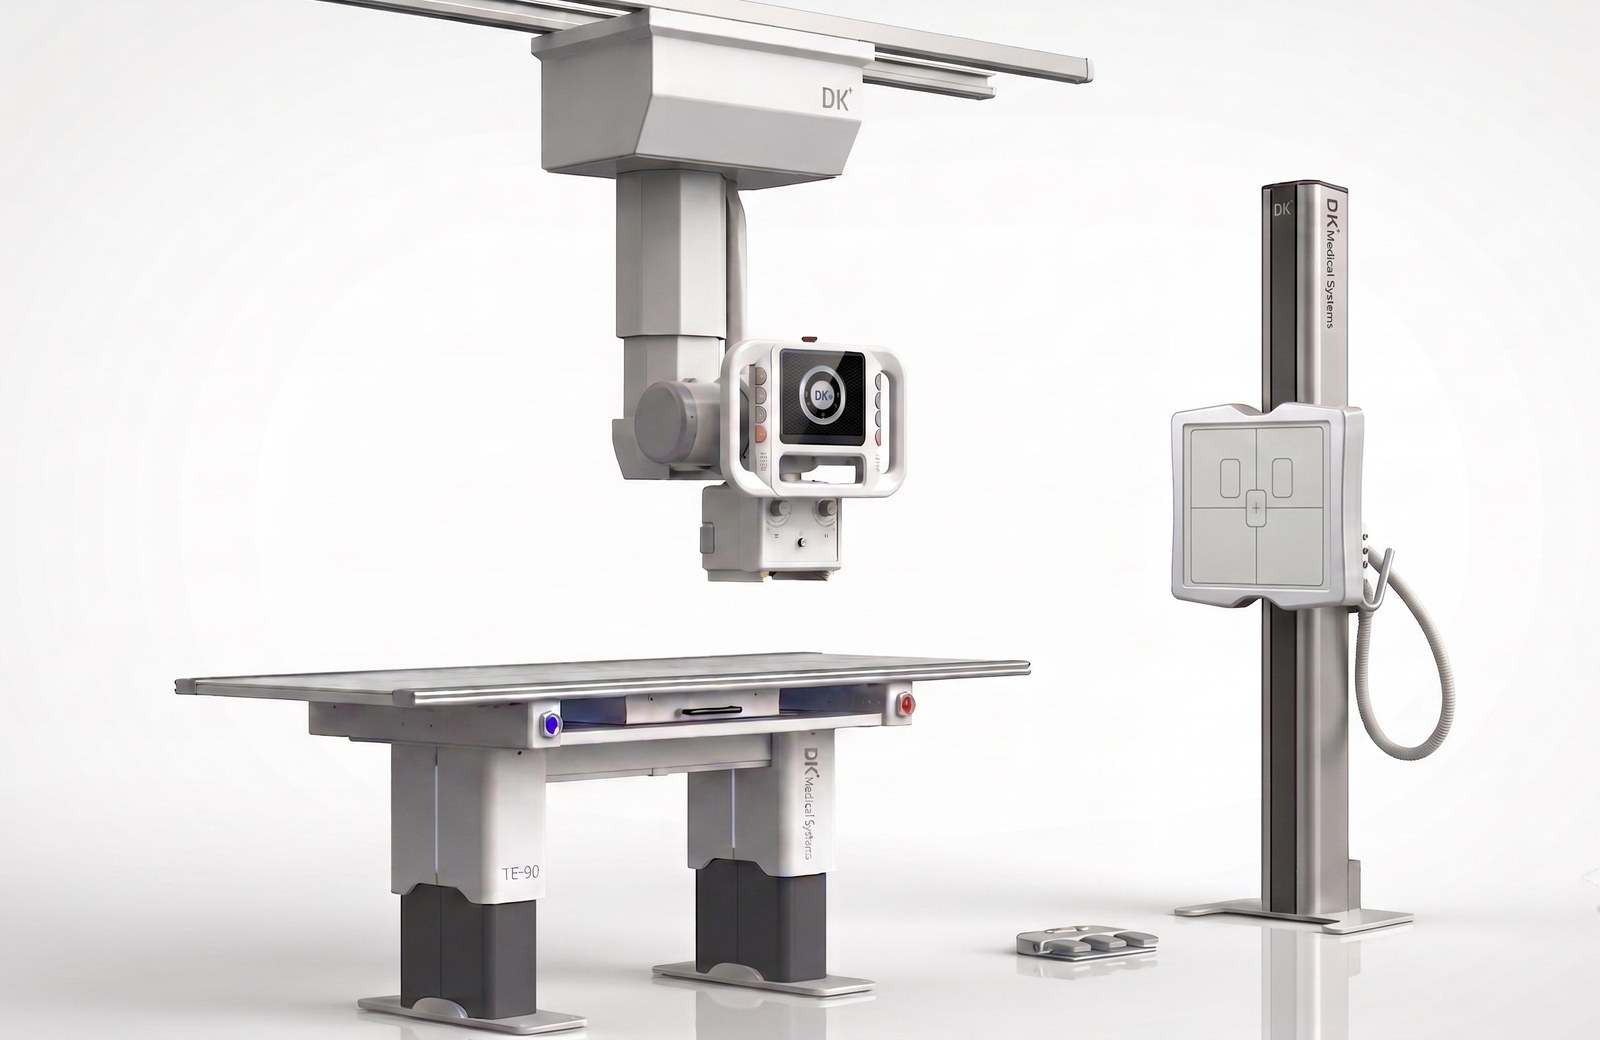
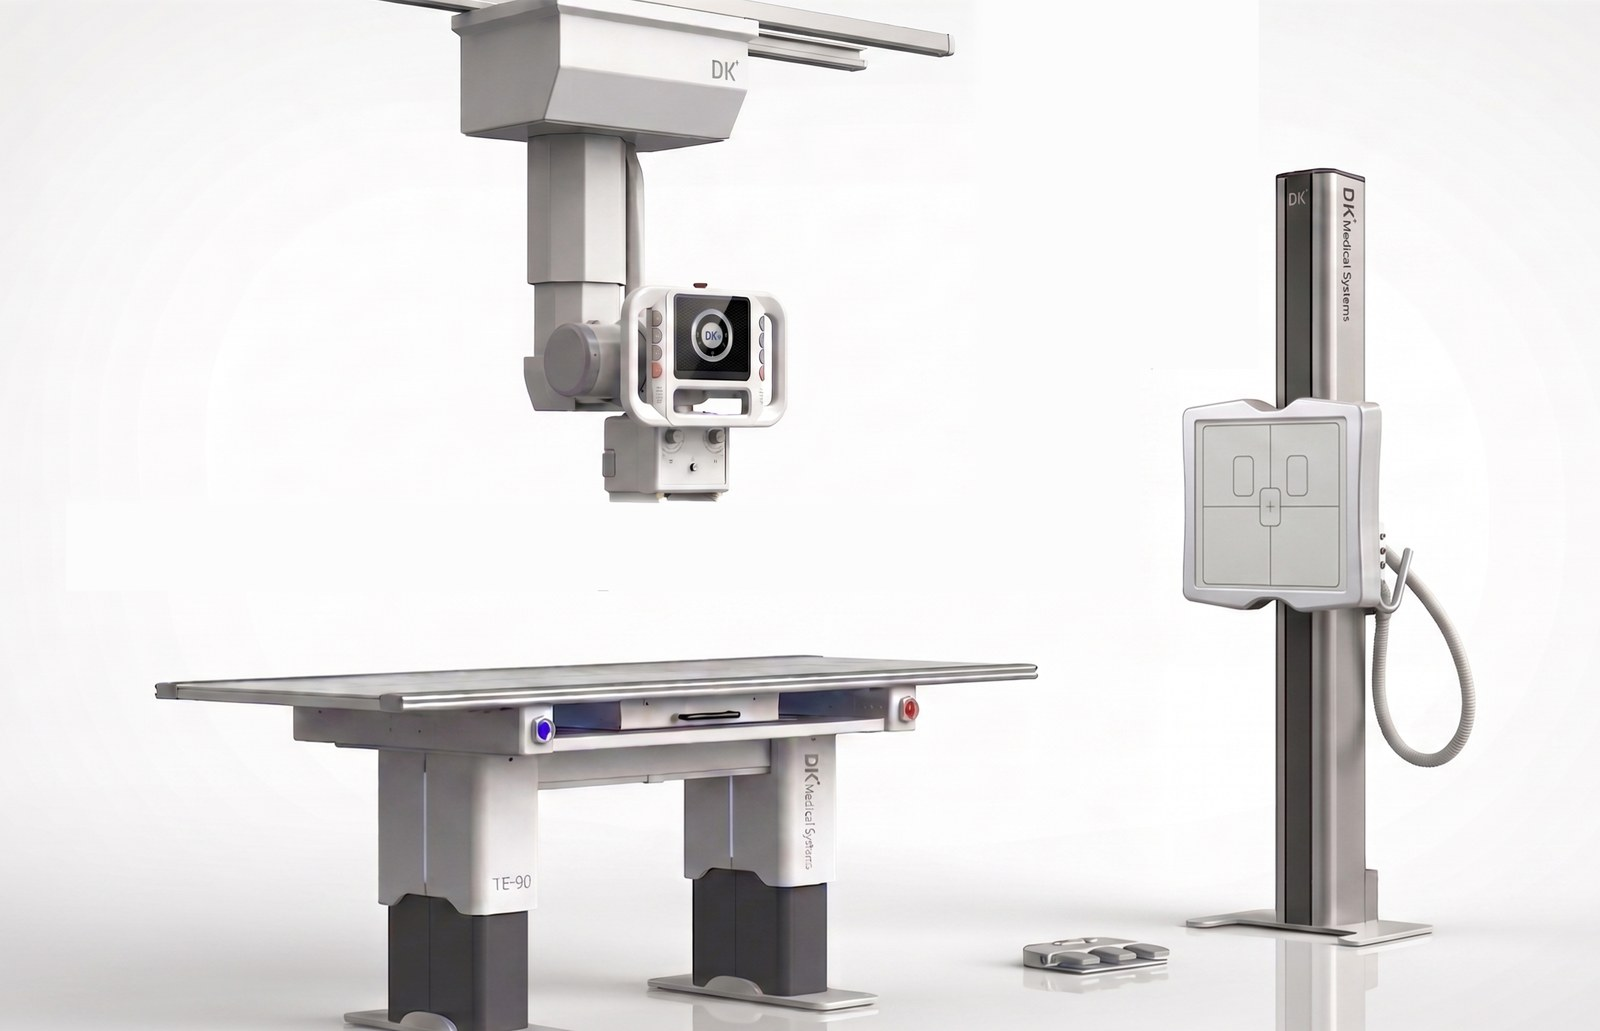
T3 Plus: INNOVISION DXII name and edited Showcase slide 9 photo
Name from DK folder "2_INNOVISION DXII (Ceiling Type-ELIN T3 Plus)". List and hero
image = Showcase 1.5 slide 9 as edited 11/6 (smaller ceiling rail), exported via
PowerPoint. New imageFit "photo" lets a white-background photo fill its tile.

Changed region(s): [[0.2188, 0.0, 0.6875, 0.5587], [0.0938, 0.6208, 0.6562, 1.0], [0.625, 0.1552, 0.9375, 1.0]]

diff --git a/docs/medivis/product/view/98/Digital/index.html b/docs/medivis/product/view/98/Digital/index.html
@@ -3,13 +3,13 @@
 <head>
   <meta charset="utf-8">
   <meta name="viewport" content="width=device-width, initial-scale=1">
-  <title>ELIN T3 Plus (Ceiling Type) | MEDIVIS</title>
-  <meta name="description" content="ELIN T3 Plus (Ceiling Type) – Digital System | MEDIVIS X-Ray">
-  <meta property="og:title" content="ELIN T3 Plus (Ceiling Type) | MEDIVIS">
+  <title>INNOVISION DXII (Ceiling Type-ELIN T3 Plus) | MEDIVIS</title>
+  <meta name="description" content="INNOVISION DXII (Ceiling Type-ELIN T3 Plus) – Digital System | MEDIVIS X-Ray">
+  <meta property="og:title" content="INNOVISION DXII (Ceiling Type-ELIN T3 Plus) | MEDIVIS">
   <meta property="og:image" content="https://www.medivis.co.kr/common/medivis/img/main/main01.jpg">
   <link rel="icon" href="/uploads/favicon/1769137000724_favicon.ico">
   <link rel="stylesheet" href="/common/medivis/css/pretendardvariable.css">
-  <link rel="stylesheet" href="/assets/site.css?v=202611052234">
+  <link rel="stylesheet" href="/assets/site.css?v=202611052238">
 </head>
 <body>
   <header class="site-header">
@@ -44,12 +44,12 @@
         <div>
           <p class="crumbs"><a href="/medivis/product/xray/">X-Ray</a> / <a href="/medivis/product/xray/#cat-Digital">Digital System</a></p>
           
-          <h1>ELIN T3 Plus (Ceiling Type)</h1>
+          <h1>INNOVISION DXII (Ceiling Type-ELIN T3 Plus)</h1>
           <p class="lead-dark">Compact Ceiling Tube Suspension for flexible space utilization.</p>
           <p class="target">Ideal for small/mid-sized clinics seeking proven durability &amp; flexible budget.</p>
           <div class="btns"><a class="btn" href="/medivis/inquiry/">Product Inquiry</a><a class="btn btn-ghost" href="/medivis/product/xray/">Back to List</a></div>
         </div>
-        <div class="product-img product-img-lg"><img src="/uploads/product/elin-t3-ceiling.png" alt="ELIN T3 Plus (Ceiling Type)"></div>
+        <div class="product-img product-img-lg is-photo"><img src="/uploads/product/elin-t3plus.jpg" alt="INNOVISION DXII (Ceiling Type-ELIN T3 Plus)"></div>
       </div>
     </section>
     <div class="section-tabs"><div class="wrap"><ul><li><a href="#specs">Key Specifications</a></li><li><a href="#features">Features</a></li><li><a href="#hl-0">Key Benefits</a></li></ul></div></div>
@@ -97,6 +97,6 @@
       </div>
     </div>
   </footer>
-  <script src="/assets/site.js?v=202611052234"></script>
+  <script src="/assets/site.js?v=202611052238"></script>
 </body>
 </html>

diff --git a/docs/medivis/product/xray/index.html b/docs/medivis/product/xray/index.html
@@ -9,7 +9,7 @@
   <meta property="og:image" content="https://www.medivis.co.kr/common/medivis/img/main/main01.jpg">
   <link rel="icon" href="/uploads/favicon/1769137000724_favicon.ico">
   <link rel="stylesheet" href="/common/medivis/css/pretendardvariable.css">
-  <link rel="stylesheet" href="/assets/site.css?v=202611052234">
+  <link rel="stylesheet" href="/assets/site.css?v=202611052238">
 </head>
 <body>
   <header class="site-header">
@@ -67,8 +67,8 @@
             <p>Digital System</p>
           </a>
           <a class="product-card" data-cat="Digital" href="/medivis/product/view/98/Digital/">
-            <div class="product-img"><img src="/uploads/product/elin-t3-ceiling.png" alt="ELIN T3 Plus (Ceiling Type)" loading="lazy"></div>
-            <h3>ELIN T3 Plus (Ceiling Type)</h3>
+            <div class="product-img is-photo"><img src="/uploads/product/elin-t3plus.jpg" alt="INNOVISION DXII (Ceiling Type-ELIN T3 Plus)" loading="lazy"></div>
+            <h3>INNOVISION DXII (Ceiling Type-ELIN T3 Plus)</h3>
             <p>Digital System</p>
           </a>
           <a class="product-card" data-cat="Digital" href="/medivis/product/view/88/Digital/">
@@ -114,6 +114,6 @@
       </div>
     </div>
   </footer>
-  <script src="/assets/site.js?v=202611052234"></script>
+  <script src="/assets/site.js?v=202611052238"></script>
 </body>
 </html>

diff --git a/tools/build.js b/tools/build.js
@@ -94,7 +94,7 @@ const tabs = items => `
 
 const productCard = p => `
           <a class="product-card" href="${productUrl(p)}">
-            <div class="product-img"><img src="${p.image}" alt="${esc(p.name)}" loading="lazy"></div>
+            <div class="product-img${p.imageFit === 'photo' ? ' is-photo' : ''}"><img src="${p.image}" alt="${esc(p.name)}" loading="lazy"></div>
             <h3>${p.badge ? `<span class="badge">${esc(p.badge)}</span>` : ''}${esc(p.name)}</h3>
             <p>${esc(catName(p.line, p.category))}</p>
           </a>`;
@@ -342,7 +342,7 @@ for (const p of data.products) {
           ${p.target ? `<p class="target">${esc(p.target)}</p>` : ''}
           <div class="btns"><a class="btn" href="/medivis/inquiry/">Product Inquiry</a><a class="btn btn-ghost" href="/medivis/product/${line.key}/">Back to List</a></div>
         </div>
-        <div class="product-img product-img-lg"><img src="${p.image}" alt="${esc(p.name)}"></div>
+        <div class="product-img product-img-lg${p.imageFit === 'photo' ? ' is-photo' : ''}"><img src="${p.image}" alt="${esc(p.name)}"></div>
       </div>
     </section>` + (p.detail ? `
     <section class="section">

diff --git a/docs/assets/site.css b/docs/assets/site.css
@@ -146,6 +146,10 @@ br.pc { display: inline; }
 .crumbs a:hover { color: var(--blue); }
 .product-top h1 { font-size: clamp(32px, 4vw, 52px); font-weight: 700; margin-bottom: 12px; }
 .product-img-lg { aspect-ratio: 1 / 1; }
+/* full photo with its own white background (e.g. room renders): fill the tile instead of floating on gray */
+.product-img.is-photo { background: #fff; padding: 0; }
+.product-card .product-img.is-photo img { width: 100%; height: 100%; max-height: none; object-fit: cover; }
+.product-img-lg.is-photo img { width: 100%; }
 .badge { display: inline-block; margin-right: 8px; padding: 3px 9px; font-size: 12px; font-weight: 700; letter-spacing: .06em; color: #fff; background: var(--cyan); vertical-align: middle; }
 .product-top .badge { margin-bottom: 16px; }
 .target { margin-top: 12px; color: var(--text); }

diff --git a/docs/medivis/inquiry/index.html b/docs/medivis/inquiry/index.html
@@ -9,7 +9,7 @@
   <meta property="og:image" content="https://www.medivis.co.kr/common/medivis/img/main/main01.jpg">
   <link rel="icon" href="/uploads/favicon/1769137000724_favicon.ico">
   <link rel="stylesheet" href="/common/medivis/css/pretendardvariable.css">
-  <link rel="stylesheet" href="/assets/site.css?v=202611052234">
+  <link rel="stylesheet" href="/assets/site.css?v=202611052238">
 </head>
 <body>
   <header class="site-header">
@@ -85,7 +85,7 @@
       </div>
     </div>
   </footer>
-  <script src="/assets/site.js?v=202611052234"></script>
+  <script src="/assets/site.js?v=202611052238"></script>
   <script>initInquiry("https://formsubmit.co/ajax/info@medivis.co.kr", "info@medivis.co.kr");</script>
 </body>
 </html>

diff --git a/docs/medivis/policy/termsuse/index.html b/docs/medivis/policy/termsuse/index.html
@@ -9,7 +9,7 @@
   <meta property="og:image" content="https://www.medivis.co.kr/common/medivis/img/main/main01.jpg">
   <link rel="icon" href="/uploads/favicon/1769137000724_favicon.ico">
   <link rel="stylesheet" href="/common/medivis/css/pretendardvariable.css">
-  <link rel="stylesheet" href="/assets/site.css?v=202611052234">
+  <link rel="stylesheet" href="/assets/site.css?v=202611052238">
 </head>
 <body>
   <header class="site-header">
@@ -118,6 +118,6 @@ No content may be copied, reproduced, distributed, or otherwise used without the
       </div>
     </div>
   </footer>
-  <script src="/assets/site.js?v=202611052234"></script>
+  <script src="/assets/site.js?v=202611052238"></script>
 </body>
 </html>

diff --git a/docs/medivis/policy/privacy/index.html b/docs/medivis/policy/privacy/index.html
@@ -9,7 +9,7 @@
   <meta property="og:image" content="https://www.medivis.co.kr/common/medivis/img/main/main01.jpg">
   <link rel="icon" href="/uploads/favicon/1769137000724_favicon.ico">
   <link rel="stylesheet" href="/common/medivis/css/pretendardvariable.css">
-  <link rel="stylesheet" href="/assets/site.css?v=202611052234">
+  <link rel="stylesheet" href="/assets/site.css?v=202611052238">
 </head>
 <body>
   <header class="site-header">
@@ -164,6 +164,6 @@ Any updates will be posted on this website.</p>
       </div>
     </div>
   </footer>
-  <script src="/assets/site.js?v=202611052234"></script>
+  <script src="/assets/site.js?v=202611052238"></script>
 </body>
 </html>

diff --git a/docs/index.html b/docs/index.html
@@ -9,7 +9,7 @@
   <meta property="og:image" content="https://www.medivis.co.kr/common/medivis/img/main/main01.jpg">
   <link rel="icon" href="/uploads/favicon/1769137000724_favicon.ico">
   <link rel="stylesheet" href="/common/medivis/css/pretendardvariable.css">
-  <link rel="stylesheet" href="/assets/site.css?v=202611052234">
+  <link rel="stylesheet" href="/assets/site.css?v=202611052238">
 </head>
 <body>
   <header class="site-header is-transparent">
@@ -111,6 +111,6 @@
       </div>
     </div>
   </footer>
-  <script src="/assets/site.js?v=202611052234"></script>
+  <script src="/assets/site.js?v=202611052238"></script>
 </body>
 </html>

diff --git a/docs/medivis/product/view/96/Digital/index.html b/docs/medivis/product/view/96/Digital/index.html
@@ -9,7 +9,7 @@
   <meta property="og:image" content="https://www.medivis.co.kr/common/medivis/img/main/main01.jpg">
   <link rel="icon" href="/uploads/favicon/1769137000724_favicon.ico">
   <link rel="stylesheet" href="/common/medivis/css/pretendardvariable.css">
-  <link rel="stylesheet" href="/assets/site.css?v=202611052234">
+  <link rel="stylesheet" href="/assets/site.css?v=202611052238">
 </head>
 <body>
   <header class="site-header">
@@ -121,6 +121,6 @@
       </div>
     </div>
   </footer>
-  <script src="/assets/site.js?v=202611052234"></script>
+  <script src="/assets/site.js?v=202611052238"></script>
 </body>
 </html>

diff --git a/docs/404.html b/docs/404.html
@@ -9,7 +9,7 @@
   <meta property="og:image" content="https://www.medivis.co.kr/common/medivis/img/main/main01.jpg">
   <link rel="icon" href="/uploads/favicon/1769137000724_favicon.ico">
   <link rel="stylesheet" href="/common/medivis/css/pretendardvariable.css">
-  <link rel="stylesheet" href="/assets/site.css?v=202611052234">
+  <link rel="stylesheet" href="/assets/site.css?v=202611052238">
 </head>
 <body>
   <header class="site-header">
@@ -64,6 +64,6 @@
       </div>
     </div>
   </footer>
-  <script src="/assets/site.js?v=202611052234"></script>
+  <script src="/assets/site.js?v=202611052238"></script>
 </body>
 </html>

diff --git a/docs/medivis/about/index.html b/docs/medivis/about/index.html
@@ -9,7 +9,7 @@
   <meta property="og:image" content="https://www.medivis.co.kr/common/medivis/img/main/main01.jpg">
   <link rel="icon" href="/uploads/favicon/1769137000724_favicon.ico">
   <link rel="stylesheet" href="/common/medivis/css/pretendardvariable.css">
-  <link rel="stylesheet" href="/assets/site.css?v=202611052234">
+  <link rel="stylesheet" href="/assets/site.css?v=202611052238">
 </head>
 <body>
   <header class="site-header">
@@ -86,6 +86,6 @@
       </div>
     </div>
   </footer>
-  <script src="/assets/site.js?v=202611052234"></script>
+  <script src="/assets/site.js?v=202611052238"></script>
 </body>
 </html>

diff --git a/docs/medivis/location/index.html b/docs/medivis/location/index.html
@@ -9,7 +9,7 @@
   <meta property="og:image" content="https://www.medivis.co.kr/common/medivis/img/main/main01.jpg">
   <link rel="icon" href="/uploads/favicon/1769137000724_favicon.ico">
   <link rel="stylesheet" href="/common/medivis/css/pretendardvariable.css">
-  <link rel="stylesheet" href="/assets/site.css?v=202611052234">
+  <link rel="stylesheet" href="/assets/site.css?v=202611052238">
 </head>
 <body>
   <header class="site-header">
@@ -74,6 +74,6 @@
       </div>
     </div>
   </footer>
-  <script src="/assets/site.js?v=202611052234"></script>
+  <script src="/assets/site.js?v=202611052238"></script>
 </body>
 </html>
